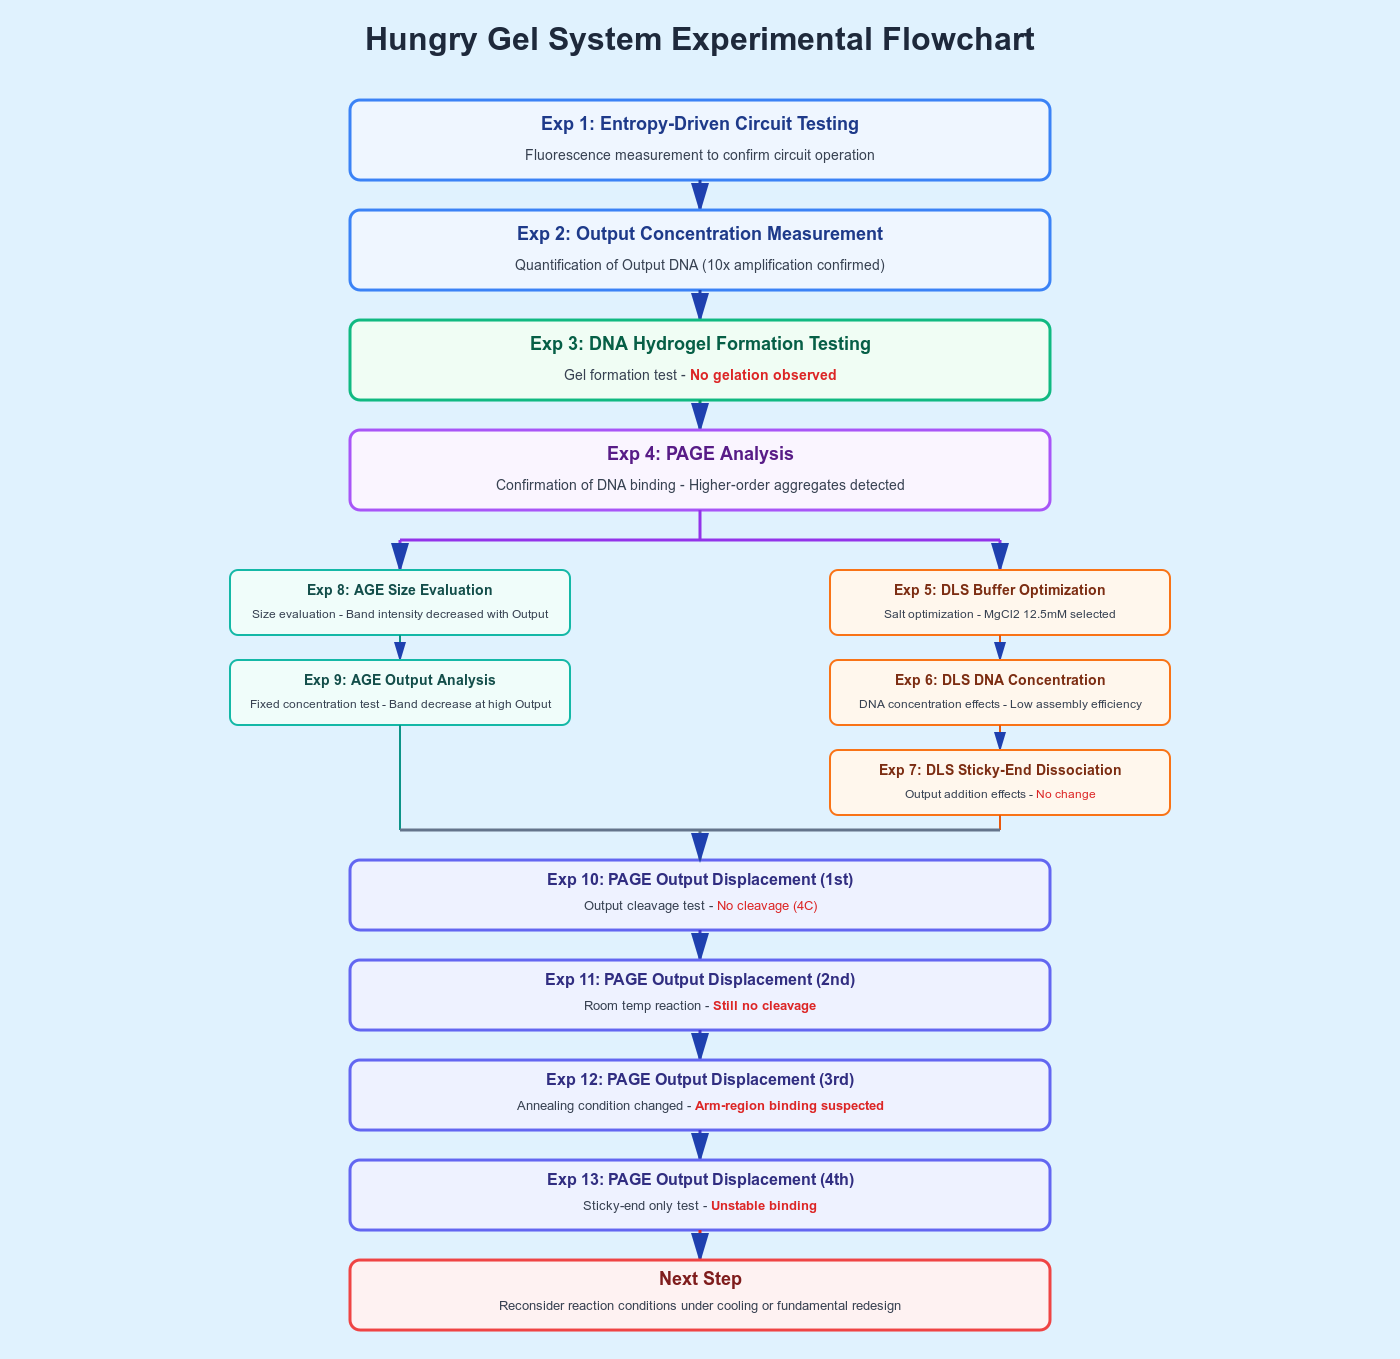
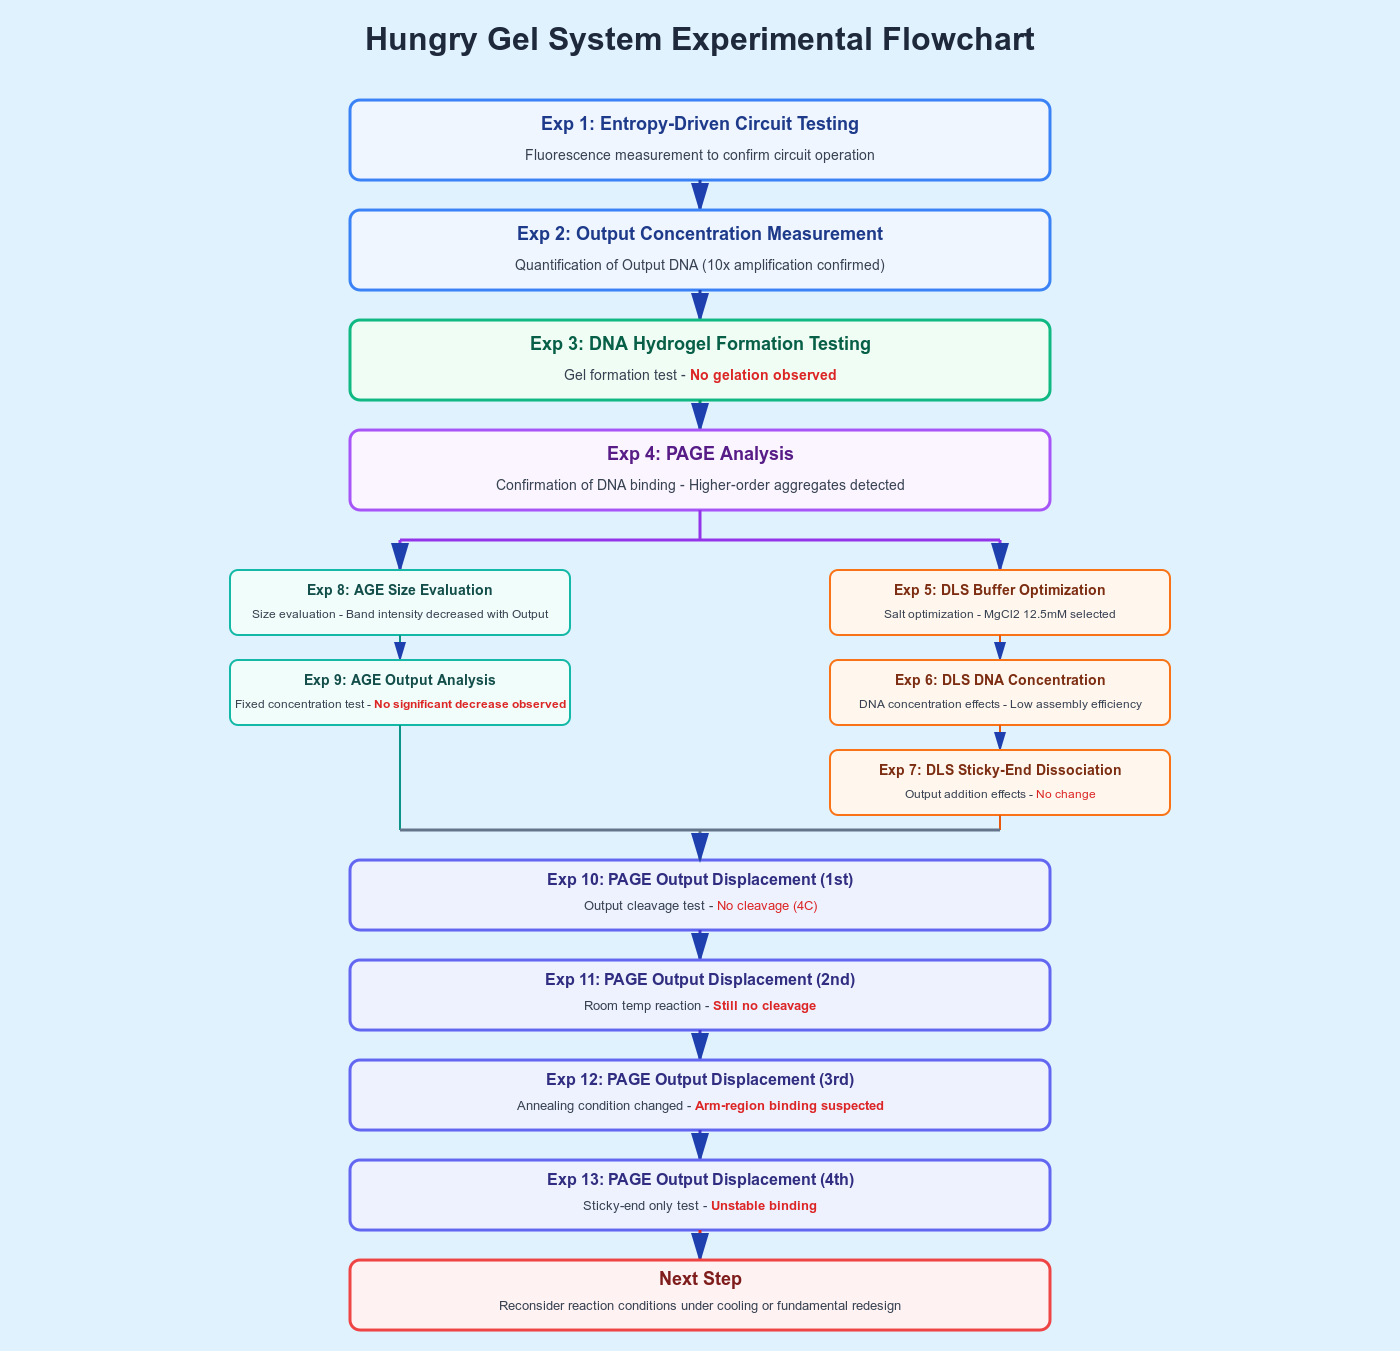
多分微小

Changed region(s): [[0.1536, 0.0622, 0.8293, 0.9948]]

diff --git a/experiment.html b/experiment.html
@@ -512,15 +512,22 @@
             </figure>
         </div>
         <h3 class="sub">Result</h3>
-        <div class="figure-block">
-            <figure class="img-item">
-                <img src="image/Agarose_Result_Expt9.png" alt="Result" class="middle-image">
-            </figure>
-        <h3 class="figure-title">Figure 9.a. Agarose Gel Electrophoresis 2nd time Result</h3>
+        <div class="split-in-half">
+            <div class="figure-block">
+                <figure class="img-item">
+                    <img src="image/Agarose_Result_Expt9.png" alt="Result" class="middle-image">
+                </figure>
+            <h3 class="figure-title">Figure 9a. Agarose Gel Electrophoresis 2nd time Result</h3>
+            </div>
+            <div class="figure-block">
+                <figure class="img-item">
+                    <img src="image/Intensity_Comparison.png" alt="Intensity Comparison" class="middle-image">
+                </figure>
+                <h3 class="figure-title">Figure 9b. Intensity comparison </h3>
+            </div>
         </div>
         <h3>
-        Outputを1000μMの濃度で添加したサンプル(B1)は他のサンプルに比べてバンドが薄くなっていることが確認され、output鎖の添加により、DNA集合体の形成が抑制されている可能性が示唆された。
-        特に、output鎖を高濃度（1000 μM）で添加したサンプルでは、バンド強度の顕著な低下が観察され、これはoutput鎖によるスティッキーエンド間の結合解離が集合体のサイズ減少に寄与していることが示唆された。
+        Fig.9aを確認するとOutputを1000μMの濃度で添加したサンプル(B1)は他のサンプルに比べてバンドが薄くなっていることが確認されたが、錯覚の可能性を考慮してB1、B4、B7の3サンプルを抽出しバンド輝度を定量的に比較した（Fig.9b）。比較の結果、これら3サンプル間で有意な輝度差は見られず、Fig.9aの印象を裏付けるほどの差は確認できなかった。したがって現条件下ではOutput添加による集合体抑制の効果は明確ではなく、測定誤差や試料調製のばらつきが影響している可能性が高い。
         </h3>
         <h3 class="sub">Next Step</h3>
         <h3>

diff --git a/style_experiment.css b/style_experiment.css
@@ -68,7 +68,7 @@ img {
 .split-in-half {
     display: flex;
     gap: 8px;
-    align-items: flex-start;
+    align-items: flex-end;
     width: 100%;
 }
 .split-three {
